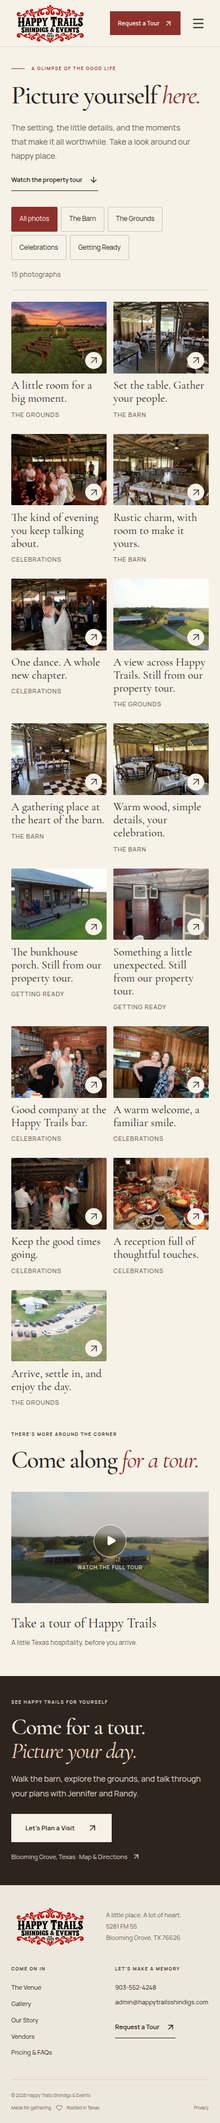
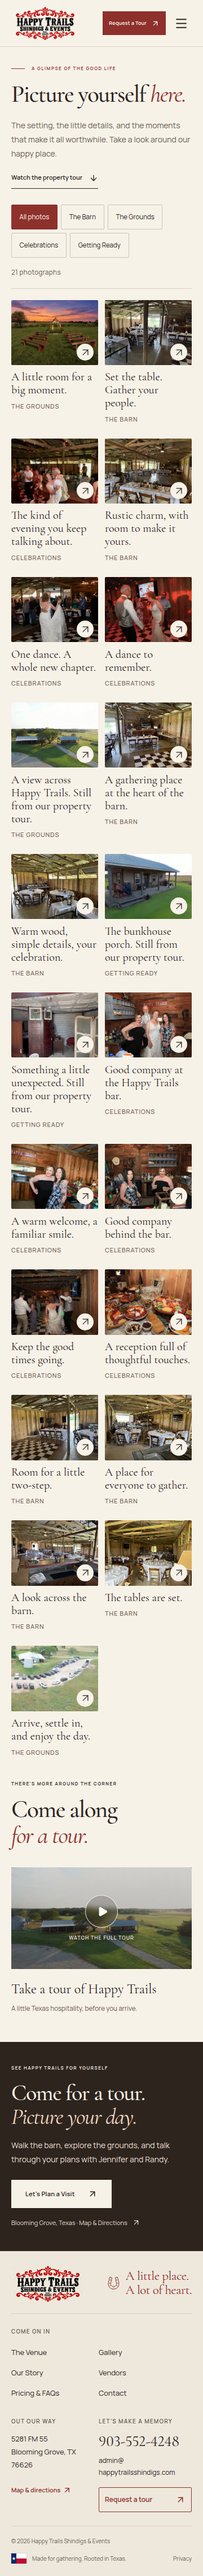
Publish approximate guest capacity and complete the venue photo gallery

diff --git a/src/lib/content.ts b/src/lib/content.ts
@@ -31,6 +31,8 @@ export const site = {
   streetAddress: "5281 FM 55",
   postalCode: "76626",
   fullAddress: "5281 FM 55, Blooming Grove, TX 76626",
+  // Owner-provided estimate, not a strict booking or occupancy limit.
+  guestCapacityEstimate: 75,
   // Owner-confirmed destination; address lookup places the map pin incorrectly.
   coordinates: {
     latitude: 32.068833597034164,
@@ -39,14 +41,17 @@ export const site = {
   url: "https://happytrailsshindigs.com",
 } as const;
 
-const encodedCoordinates = encodeURIComponent(`${site.coordinates.latitude},${site.coordinates.longitude}`);
+const encodedCoordinates = encodeURIComponent(
+  `${site.coordinates.latitude},${site.coordinates.longitude}`,
+);
 export const directions = {
   google: `https://www.google.com/maps/dir/?api=1&destination=${encodedCoordinates}&travelmode=driving`,
   apple: `https://maps.apple.com/?daddr=${encodedCoordinates}&dirflg=d`,
   waze: `https://waze.com/ul?ll=${encodedCoordinates}&navigate=yes`,
 } as const;
 
-// Source: Happy Trails Web menue doc.docx. No capacities or package inclusions inferred.
+// Sources: Happy Trails Web menue doc.docx and subsequent owner confirmations.
+// Guest capacity is approximate; package inclusions are not inferred.
 export const faqs = [
   {
     question: "Where is Happy Trails?",
@@ -57,6 +62,10 @@ export const faqs = [
     question: "What does a wedding at Happy Trails cost?",
     answer:
       "Weddings start at $3,000. Contact Jennifer and Randy to talk through your plans and receive pricing for your celebration.",
+  },
+  {
+    question: "How many guests can Happy Trails accommodate?",
+    answer: `Happy Trails can accommodate approximately ${site.guestCapacityEstimate} guests. Tell Jennifer and Randy about your guest list and plans when you get in touch.`,
   },
   {
     question: "Can we host something other than a wedding?",
@@ -135,6 +144,15 @@ const gallerySeed: readonly MediaItem[] = [
     position: "50% 55%",
   },
   {
+    id: "wedding-dance-floor",
+    src: "/images/wedding-dance-floor.webp",
+    alt: "A bride and a man in a vest dancing on the checkered floor, with wedding guests nearby",
+    caption: "A dance to remember.",
+    category: "Celebrations",
+    width: 2400,
+    height: 1600,
+  },
+  {
     id: "exterior-wide",
     src: "/images/exterior-wide.webp",
     alt: "The barn, grain-bin suite, and bunkhouse around a green lawn and gravel drive",
@@ -199,6 +217,15 @@ const gallerySeed: readonly MediaItem[] = [
     height: 1600,
   },
   {
+    id: "reception-bar-guests",
+    src: "/images/reception-bar-guests.webp",
+    alt: "Two women posing with drinks behind the rustic wooden bar and its Western decorations",
+    caption: "Good company behind the bar.",
+    category: "Celebrations",
+    width: 2400,
+    height: 1600,
+  },
+  {
     id: "evening-dance",
     src: "/images/evening-dance.webp",
     alt: "A bride and wedding guests dancing in the barn under warm string lights",
@@ -215,6 +242,42 @@ const gallerySeed: readonly MediaItem[] = [
     category: "Celebrations",
     width: 2400,
     height: 1600,
+  },
+  {
+    id: "barn-dance-floor",
+    src: "/images/barn-dance-floor.webp",
+    alt: "The barn’s checkered dance floor beside reception tables and wooden walls",
+    caption: "Room for a little two-step.",
+    category: "The Barn",
+    width: 2400,
+    height: 1800,
+  },
+  {
+    id: "barn-reception-view",
+    src: "/images/barn-reception-view.webp",
+    alt: "Round reception tables set with white linens beneath exposed wooden beams",
+    caption: "A place for everyone to gather.",
+    category: "The Barn",
+    width: 2400,
+    height: 1800,
+  },
+  {
+    id: "barn-bar-view",
+    src: "/images/barn-bar-view.webp",
+    alt: "A view from behind the barn bar across the checkered dance floor and reception tables",
+    caption: "A look across the barn.",
+    category: "The Barn",
+    width: 2400,
+    height: 1800,
+  },
+  {
+    id: "barn-reception-tables",
+    src: "/images/barn-reception-tables.webp",
+    alt: "Rows of reception tables with white linens, place settings, and wooden chairs inside the barn",
+    caption: "The tables are set.",
+    category: "The Barn",
+    width: 2400,
+    height: 1800,
   },
   {
     id: "parking",

diff --git a/src/app/venue/page.tsx b/src/app/venue/page.tsx
@@ -2,6 +2,7 @@ import type { Metadata } from "next";
 import { ContentImage } from "@/components/content-image";
 import { Check } from "lucide-react";
 import { PageIntro, ContactCta, ButtonLink } from "@/components/ui";
+import { site } from "@/lib/content";
 
 export const metadata: Metadata = {
   title: "The Venue",
@@ -37,8 +38,8 @@ export default function VenuePage() {
         }
       >
         <p>
-          Twenty-two acres, a barn full of character, and open countryside. Come see where your
-          celebration could take you.
+          Twenty-two acres, a barn full of character, and room for approximately{" "}
+          {site.guestCapacityEstimate} guests. Come see where your celebration could take you.
         </p>
       </PageIntro>
       <nav className="container venue-jumpnav" aria-label="Explore the venue spaces">
@@ -158,9 +159,7 @@ export default function VenuePage() {
               invites you to sit a while. It’s a comfortable place to gather before the celebration
               begins.
             </p>
-            <Amenities
-              items={["Air conditioning", "Mini kitchen", "Bathroom", "Large porch"]}
-            />
+            <Amenities items={["Air conditioning", "Mini kitchen", "Bathroom", "Large porch"]} />
           </div>
           <div className="venue-story-image" data-motion="image">
             <ContentImage

diff --git a/src/components/inquiry-form.tsx b/src/components/inquiry-form.tsx
@@ -12,7 +12,7 @@ const subscribeToHydration = () => () => {};
 const clientSnapshot = () => true;
 const serverSnapshot = () => false;
 
-export function InquiryForm() {
+export function InquiryForm({ guestCapacityEstimate }: { guestCapacityEstimate: number }) {
   const hydrated = useSyncExternalStore(subscribeToHydration, clientSnapshot, serverSnapshot);
   const [status, setStatus] = useState<Status>("idle");
   const [errors, setErrors] = useState<InquiryFieldErrors>({});
@@ -246,8 +246,11 @@ export function InquiryForm() {
             step={1}
             placeholder="Your best guess"
             aria-invalid={!!errors.guestCount}
-            aria-describedby={describedBy("guestCount")}
+            aria-describedby={describedBy("guestCount", "guest-count-help")}
           />
+          <span className={styles.help} id="guest-count-help">
+            Our venue accommodates approximately {guestCapacityEstimate} guests.
+          </span>
           {fieldError("guestCount")}
         </div>
         <div className={`${styles.field} ${styles.fullWidth}`}>

diff --git a/tests/scroll-motion.spec.ts b/tests/scroll-motion.spec.ts
@@ -154,7 +154,7 @@ test("gallery filtering and route history leave later content visible on scroll"
   await page.goto("/gallery");
   await waitForMotion(page);
   await page.getByRole("button", { name: "The Barn", exact: true }).click();
-  await expect(page.getByRole("button", { name: /^Open photograph:/ })).toHaveCount(4);
+  await expect(page.getByRole("button", { name: /^Open photograph:/ })).toHaveCount(8);
   const tour = page.locator("#property-tour");
   await scrollTo(tour);
   await expectMotionComplete(tour);
@@ -168,7 +168,7 @@ test("gallery filtering and route history leave later content visible on scroll"
   await scrollTo(tour);
   await expectMotionComplete(tour);
   await page.getByRole("button", { name: "All photos", exact: true }).click();
-  await expect(page.getByRole("button", { name: /^Open photograph:/ })).toHaveCount(15);
+  await expect(page.getByRole("button", { name: /^Open photograph:/ })).toHaveCount(21);
   await scrollTo(tour);
   await expectMotionComplete(tour);
 });

diff --git a/src/app/page.tsx b/src/app/page.tsx
@@ -12,7 +12,7 @@ const spaces = [
   {
     n: "01",
     title: "The Barn",
-    copy: "A restored horse barn with a lit dance floor, custom wet bar, and covered outdoor seating.",
+    copy: `A restored horse barn with a lit dance floor, custom wet bar, and covered outdoor seating. Happy Trails welcomes approximately ${site.guestCapacityEstimate} guests.`,
     slot: "barn" as MediaSlot,
     href: "/venue#the-barn",
     label: "1,800 square feet · The reception",
@@ -121,9 +121,9 @@ export default async function HomePage() {
           </dd>
         </div>
         <div>
-          <dt>Getting ready</dt>
+          <dt>Approximately</dt>
           <dd>
-            2 <span>dedicated spaces</span>
+            {site.guestCapacityEstimate} <span>guests</span>
           </dd>
         </div>
         <div>

diff --git a/src/app/contact/page.tsx b/src/app/contact/page.tsx
@@ -62,7 +62,9 @@ export default function ContactPage() {
               <br />
               Blooming Grove, TX {site.postalCode}
             </p>
-            <a className="text-link" href="#directions">View Map & Directions ↗</a>
+            <a className="text-link" href="#directions">
+              View Map & Directions ↗
+            </a>
           </div>
           <div className="contact-photo">
             <ContentImage
@@ -73,7 +75,7 @@ export default function ContactPage() {
             />
           </div>
         </aside>
-        <InquiryForm />
+        <InquiryForm guestCapacityEstimate={site.guestCapacityEstimate} />
       </div>
       <VenueLocation />
     </>

diff --git a/scripts/prepare_media.py b/scripts/prepare_media.py
@@ -27,8 +27,14 @@ IMAGE_SOURCES = {
     "barn-wide": "IMG_5660.HEIC",
     "barn-bar": "IMG_5658.HEIC",
     "barn-details": "IMG_5656.HEIC",
+    "barn-dance-floor": "IMG_5657.HEIC",
+    "barn-reception-view": "IMG_5661.HEIC",
+    "barn-bar-view": "IMG_5662.HEIC",
+    "barn-reception-tables": "IMG_5663.HEIC",
     "celebration": "IMG_6415.jpeg",
     "first-dance": "IMG_6330.jpeg",
+    "reception-bar-guests": "IMG_6307.jpeg",
+    "wedding-dance-floor": "IMG_6465.jpeg",
     "the-hosts": "IMG_6447.jpeg",
     "hospitality": "IMG_6424.jpeg",
     "evening-dance": "IMG_6502.jpeg",

diff --git a/docs/assets.md b/docs/assets.md
@@ -1,6 +1,6 @@
 # Happy Trails media and content inventory
 
-The original root assets are retained unchanged in the owner's local workspace and excluded from Git. The website publishes a curated selection of real event photographs plus clearly identified stills from the supplied property tours. The AI-labelled portrait is excluded.
+The original root assets are retained unchanged in the owner's local workspace and excluded from Git. The gallery publishes all 18 original venue/event photographs plus three clearly identified stills from the supplied property tours, for 21 images in total. The logo is used separately as branding; the AI-labelled portrait remains excluded.
 
 ## Rebuild derivatives
 
@@ -22,8 +22,14 @@ Use `--images-only` to skip video encoding. The script writes only to `public/im
 | `barn-wide.webp`          | `IMG_5660.HEIC`                | 2400 × 1800 | Wide barn interior                                            |
 | `barn-bar.webp`           | `IMG_5658.HEIC`                | 2400 × 1800 | Bar and dance floor                                           |
 | `barn-details.webp`       | `IMG_5656.HEIC`                | 2400 × 1800 | Barn seating detail                                           |
+| `barn-dance-floor.webp`   | `IMG_5657.HEIC`                | 2400 × 1800 | Dance floor and reception tables                              |
+| `barn-reception-view.webp` | `IMG_5661.HEIC`               | 2400 × 1800 | Reception tables beneath exposed beams                        |
+| `barn-bar-view.webp`      | `IMG_5662.HEIC`                | 2400 × 1800 | View across the barn from behind the bar                       |
+| `barn-reception-tables.webp` | `IMG_5663.HEIC`             | 2400 × 1800 | Another view of reception place settings                       |
 | `celebration.webp`        | `IMG_6415.jpeg`                | 2400 × 1600 | Guests dancing                                                |
 | `first-dance.webp`        | `IMG_6330.jpeg`                | 1892 × 2400 | Bride and groom dancing                                       |
+| `reception-bar-guests.webp` | `IMG_6307.jpeg`              | 2400 × 1600 | Two guests at the bar                                          |
+| `wedding-dance-floor.webp` | `IMG_6465.jpeg`               | 2400 × 1600 | Wedding dance-floor moment                                    |
 | `the-hosts.webp`          | `IMG_6447.jpeg`                | 2400 × 1600 | Four-person reception group; caption describes the group      |
 | `hospitality.webp`        | `IMG_6424.jpeg`                | 2400 × 1600 | Reception at the bar                                          |
 | `evening-dance.webp`      | `IMG_6502.jpeg`                | 2400 × 1600 | Dancing beneath string lights                                 |
@@ -36,7 +42,7 @@ Use `--images-only` to skip video encoding. The script writes only to `public/im
 
 The exterior frame retains the full 16:9 source image. It comes from the brief clean drone sequence after the opening logo and before the close-up of the owners; no title overlays or foreground people are present. Suite frames are limited by the source video’s motion and compression, and dedicated still photographs should replace them when available.
 
-The other four HEIC files (`IMG_5657`, `IMG_5661`, `IMG_5662`, `IMG_5663`) repeat similar barn views. `IMG_6307.jpeg` and `IMG_6465.jpeg` repeat reception subjects. Keep these as source alternatives instead of adding redundant gallery tiles. The 20 original still assets comprise eight HEIC photographs, eight reception JPEGs, a parking JPG, a sunset PNG, the transparent logo, and the AI-labelled PNG.
+The owner requested complete photo coverage after the initial curated gallery. The six previously omitted photographs (`IMG_5657`, `IMG_5661`, `IMG_5662`, `IMG_5663`, `IMG_6307`, and `IMG_6465`) are now included. The owner confirmed that the reference to “6545” meant `IMG_6465.jpeg`. The 20 original still assets comprise eight HEIC photographs, eight reception JPEGs, a parking JPG, a sunset PNG, the transparent logo, and the AI-labelled PNG. There are no exact SHA-256 duplicates among those originals. All 18 venue/event photo sources map to gallery entries; the three additional gallery items are the exterior, bunkhouse, and bridal-suite video stills. The identical exterior and tour-poster derivatives appear only once in the gallery.
 
 ## Videos
 
@@ -51,6 +57,8 @@ Combined video output is 24,046,399 bytes, below the 30 MB target; originals tot
 
 `Happy Trails Web menue doc.docx` is the initial source for the owner story, location, contact information, venue sizes, amenities, vendor assistance, and starting wedding price. `src/lib/content.ts` provides stable `MediaItem` and `NewsPost` interfaces, asynchronous read functions, descriptive alt text, and the initial site information and FAQs. News intentionally starts empty: there are no invented announcements or publish dates.
 
-Do not infer an exact street address, guest capacity, availability, booking terms, catering/alcohol rules, or package inclusions. The bridal and groomsmen quarters are described as preparation spaces; overnight accommodation is not established by the brief. Exact owner identities should not be inferred from a group photograph. The supplied filename `the-hosts.webp` is retained for the implementation contract, but its alt text and gallery caption identify only a reception group.
+Subsequent owner confirmations supply the exact address and an estimated capacity of approximately 75 guests. These details are stored in `site` in `src/lib/content.ts`; the capacity is an estimate, not an exact maximum. The owner's estimate supersedes the unapproved 125-guest suggestion in `ideas.md`.
+
+Do not infer availability, booking terms, catering/alcohol rules, or package inclusions. The bridal and groomsmen quarters are described as preparation spaces; overnight accommodation is not established by the brief. Exact owner identities should not be inferred from a group photograph. The supplied filename `the-hosts.webp` is retained for the implementation contract, but its alt text and gallery caption identify only a reception group.
 
 The remaining written inputs (`ideas.md`, `modernbuild.md`, and `photogallery.md`) establish visual and interaction direction. They are design references, not additional business facts.

diff --git a/docs/validation/README.md b/docs/validation/README.md
@@ -1,16 +1,18 @@
 # Validation record
 
-Validated against the local production build on September 26, 2026, after the design revision, GSAP scroll-animation implementation, and footer redesign.
+Validated against the local production build on September 26, 2026, after the design revision, GSAP scroll-animation implementation, footer redesign, capacity update, and complete venue-photo import.
 
 ## Application checks
 
 - `npm run build`: passed; Next.js 16.3.6, React 19.3.0, Node 22.19.0. TypeScript passed in the build.
 - `npm run lint`: passed without warnings.
-- Browser acceptance suite: **40 passed in 35.0 seconds** after the footer redesign, including eight automated WCAG A/AA scans. The suite includes seven motion checks: persistent photo reveals, live reduced-motion changes, no-JavaScript readability, keyboard focus, cross-page fragment links, gallery filtering/history, and FAQ expansion.
+- Browser acceptance suite: **40 passed in 1.1 minutes** after the capacity update and complete photo import, including eight automated WCAG A/AA scans. The suite includes seven motion checks: persistent photo reveals, live reduced-motion changes, no-JavaScript readability, keyboard focus, cross-page fragment links, gallery filtering/history, and FAQ expansion.
 - Inquiry unit suite: **18 passed** after the Vercel readiness check added exact-origin support for `VERCEL_PROJECT_PRODUCTION_URL`. Delivery remains mocked; the regression check also rejects unrelated and lookalike origins.
 - Responsive homepage widths: 360, 390, 430, 768, 1440, and 1920 pixels. All seven principal pages were inspected and measured at 390 and 1440 pixels after fonts and images loaded; none had horizontal overflow.
 - Independent inner-page visual review covered Venue, Pricing, Story, Vendors, and Contact. Introductions, photo crops, spacing, pricing visibility, and contact/map access were checked.
-- Gallery was independently checked at 360/390/768/1440: all 15 photos loaded, captions remained readable in the two-column phone grid, filtering narrowed the Barn category to four photos, and keyboard navigation, Escape, and focus restoration worked. The tour shortcut landed on the visible player section.
+- Gallery completion audit: all 18 original venue/event photographs now appear alongside three unique tour stills, for 21 images. Every source mapping resolves to a gallery entry; gallery dimensions match the files and EXIF metadata is absent. See [source coverage](gallery-coverage.json). The original logo and separately AI-labelled portrait remain outside the photo gallery.
+- The expanded gallery was checked at 360 and 1440px: all 21 images loaded, Barn and Celebrations each filtered to eight images, and the newly added `IMG_6465` photo opened in the lightbox. Escape closed it and restored focus. Updated screenshots were visually inspected; neither viewport had horizontal overflow or browser exceptions. The browser suite also verified filtering/history and the later tour section after the collection grew.
+- Capacity copy was checked at 360 and 1440px on the homepage (including the barn description beside the 1,800-square-foot detail), Venue introduction, expanded Pricing FAQ, and inquiry form. All say approximately 75 guests. The guest field links to its help text for assistive technology; 76 remains valid because this is an estimate rather than a new booking limit. No inquiry was sent by these additional checks.
 - The suite also covers menu keyboard behavior, deferred video loading, inquiry validation/error handling, JavaScript-disabled form fallback, public route/image loading, and the map download.
 - All three map-app links now use the owner's corrected coordinates, **32.068833597034164, -96.69761704124728**, while the venue address remains visible. The targeted directions/browser test passed after the correction; no physical-phone app handoff or driven route has been tested.
 - Source photos and videos remain unchanged. The original public photo collection and every owner-brief amenity remain represented.

diff --git a/docs/team-brief-audit.md b/docs/team-brief-audit.md
@@ -4,7 +4,9 @@ Audited September 26, 2026 against `Happy Trails Web menue doc.docx`. Updated th
 
 **Verdict: all six requested public-site sections are represented, and the three identified content gaps are resolved.** Contact now includes a map and directions, Vendors has its own page and navigation links, and the bar/countertop dimension is restored. This requirement-by-requirement review establishes content coverage; deployment, real email delivery, final checks, and owner acceptance remain separate from that finding.
 
-The Word document and subsequent owner-supplied address are the authorities for this comparison. Suggestions in `ideas.md` are not treated as approved venue facts. “Covered” means the information is represented accurately in the site, not that the original paragraph appears verbatim.
+The Word document and subsequent owner-supplied details are the authorities for this comparison. Suggestions in `ideas.md` are not treated as approved venue facts. “Covered” means the information is represented accurately in the site, not that the original paragraph appears verbatim.
+
+Subsequent capacity confirmation: the owner reports room for approximately 75 guests. The homepage facts, Venue introduction, Pricing FAQ, and inquiry form now use this estimate from the shared content configuration. It is not described as a firm maximum or enforced as a guest-count validation limit. This supersedes the unapproved 125-guest suggestion in `ideas.md`; original source files remain unchanged.
 
 ## Requested menu and sections
 
@@ -12,7 +14,7 @@ The Word document and subsequent owner-supplied address are the authorities for 
 | --- | --- | --- |
 | About us | Covered with editorial changes | `/our-story`, called **Our Story** in desktop/mobile navigation. Core history and event types are preserved. |
 | Amenities | Covered | `/venue`, called **The Venue** in navigation. Individual specifications are checked below, including the restored bar/countertop length. |
-| Photo gallery: tour video and stills | Covered | `/gallery` has curated photographs, category filtering, a lightbox, and the full property tour. The shorter tour appears on the homepage. |
+| Photo gallery: tour video and stills | Covered | `/gallery` includes all 18 original venue/event photographs plus three property-tour stills, category filtering, a lightbox, and the full property tour. This complete coverage follows the owner's request to add six previously omitted photographs, including `IMG_6465.jpeg`. The shorter tour appears on the homepage. |
 | Vendors: assistance finding local vendors | Covered | `/vendors` offers help locating local vendors and links to Contact. It appears in desktop, mobile, and footer navigation and the sitemap. The offer also remains in Venue copy and a Pricing FAQ. A named vendor directory was not requested or supplied. |
 | Pricing | Covered | Weddings **starting at $3,000**; other parties/functions quoted according to needs, with contact links. |
 | Contact us | Covered in the public interface | Correct phone/email, exact address, inquiry form, illustrated location map, Google Maps, Apple Maps, and Waze directions, and a downloadable map. Desktop navigation uses **Request a Tour**, mobile also uses **Get in Touch**. Real form delivery remains a launch check. |

diff --git a/README.md b/README.md
@@ -25,7 +25,7 @@ npm run start
 ## What is included
 
 - Responsive Home, Venue, Gallery, Vendors, Pricing & FAQs, Our Story, News, Contact, and Privacy pages.
-- Fifteen curated photographs with category filters, captions, swipe/keyboard navigation, zoom, thumbnails, and fullscreen viewing.
+- Twenty-one gallery images: all 18 original venue/event photographs plus three property-tour stills, with category filters, captions, swipe/keyboard navigation, zoom, thumbnails, and fullscreen viewing.
 - Two optimized, on-demand property tours; originals remain untouched in the workspace root.
 - A dedicated Vendors page in desktop, mobile, and footer navigation, offering help finding local vendors.
 - The supplied address, 5281 FM 55, Blooming Grove, TX 76626, with an illustrated location map, downloadable map, and Google Maps, Apple Maps, and Waze driving directions on Contact.
@@ -60,7 +60,7 @@ The original root-level media and planning documents stay in the local workspace
 
 To add an approved update during this first phase, add a `NewsPost` to `newsSeed` and redeploy. The news index, article route, homepage teaser, metadata, and sitemap then populate from the same reader. The initial news collection is intentionally empty.
 
-See [the asset register](docs/assets.md) for source-to-output mappings, dimensions, media preparation, and photography limitations. See [the map provenance](docs/maps/README.md) for the illustrated location guide and reference data. Venue copy follows the Word brief and subsequent owner-supplied details, including the exact address. Capacity, alcohol/vendor policies, rental terms, and package inclusions still require owner-provided details.
+See [the asset register](docs/assets.md) for source-to-output mappings, dimensions, media preparation, and photography limitations. See [the map provenance](docs/maps/README.md) for the illustrated location guide and reference data. Venue copy follows the Word brief and subsequent owner-supplied details, including the exact address and an estimated capacity of approximately 75 guests. The estimate is published on the homepage, Venue page, Pricing FAQ, and inquiry form; it is not enforced as a booking limit. Alcohol/vendor policies, rental terms, and package inclusions still require owner-provided details.
 
 The [team brief audit](docs/team-brief-audit.md) records coverage of all six requested sections and the resolved map, Vendors-navigation, and bar-dimension gaps. This is content coverage, separate from deployment, real inquiry delivery, and owner acceptance.
 
